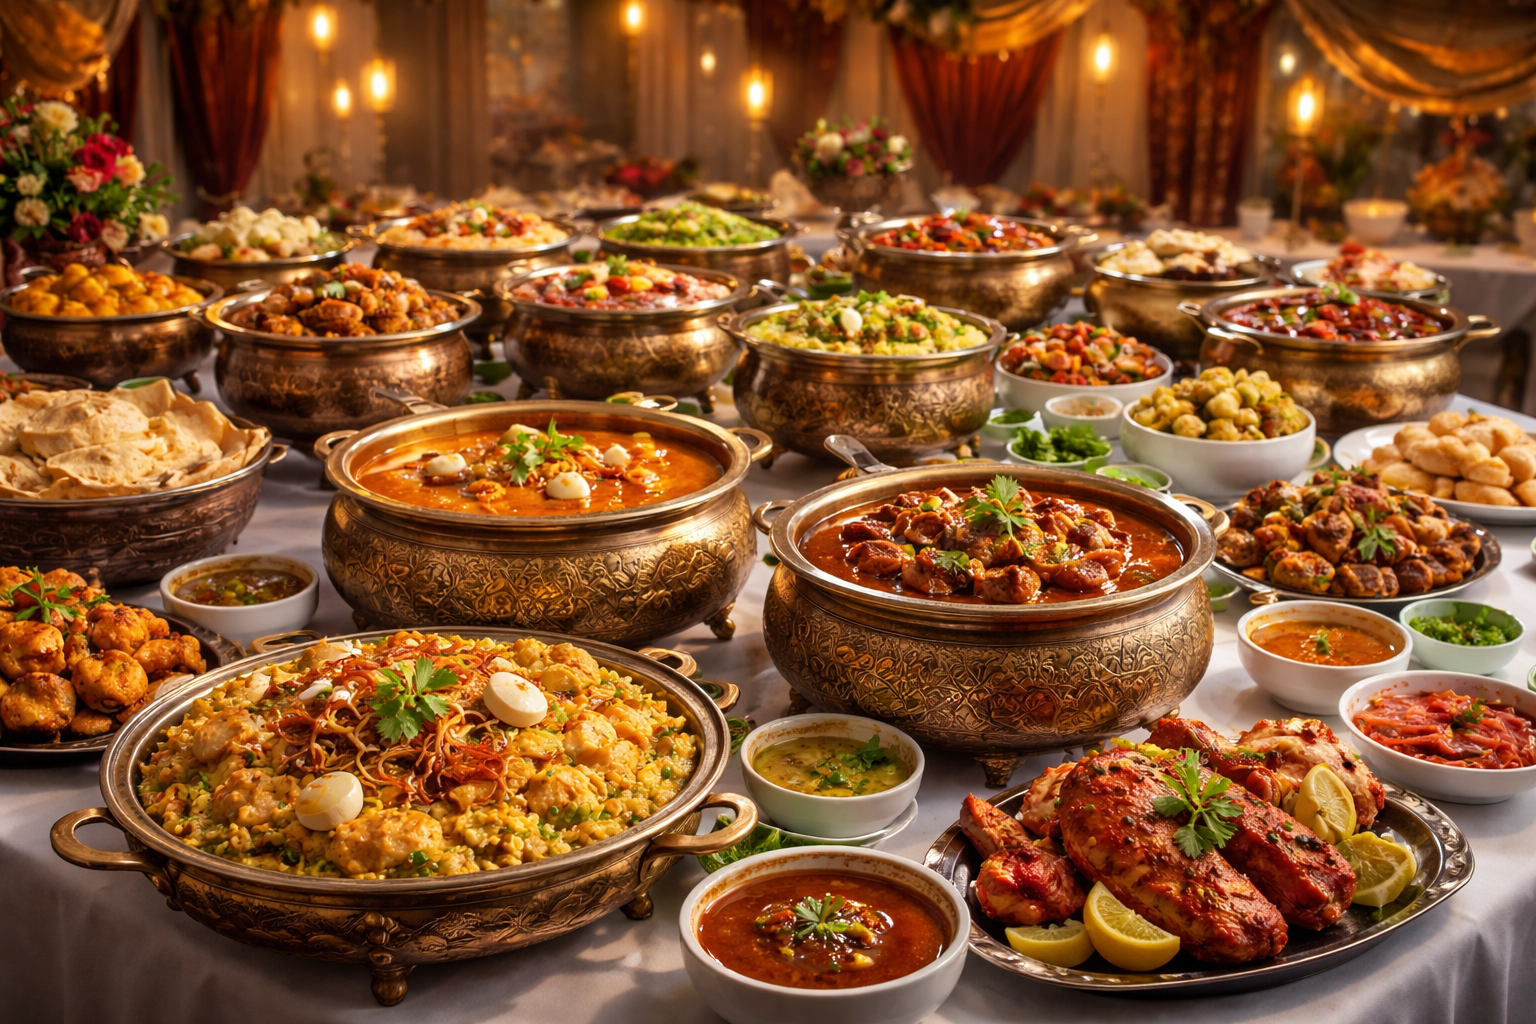
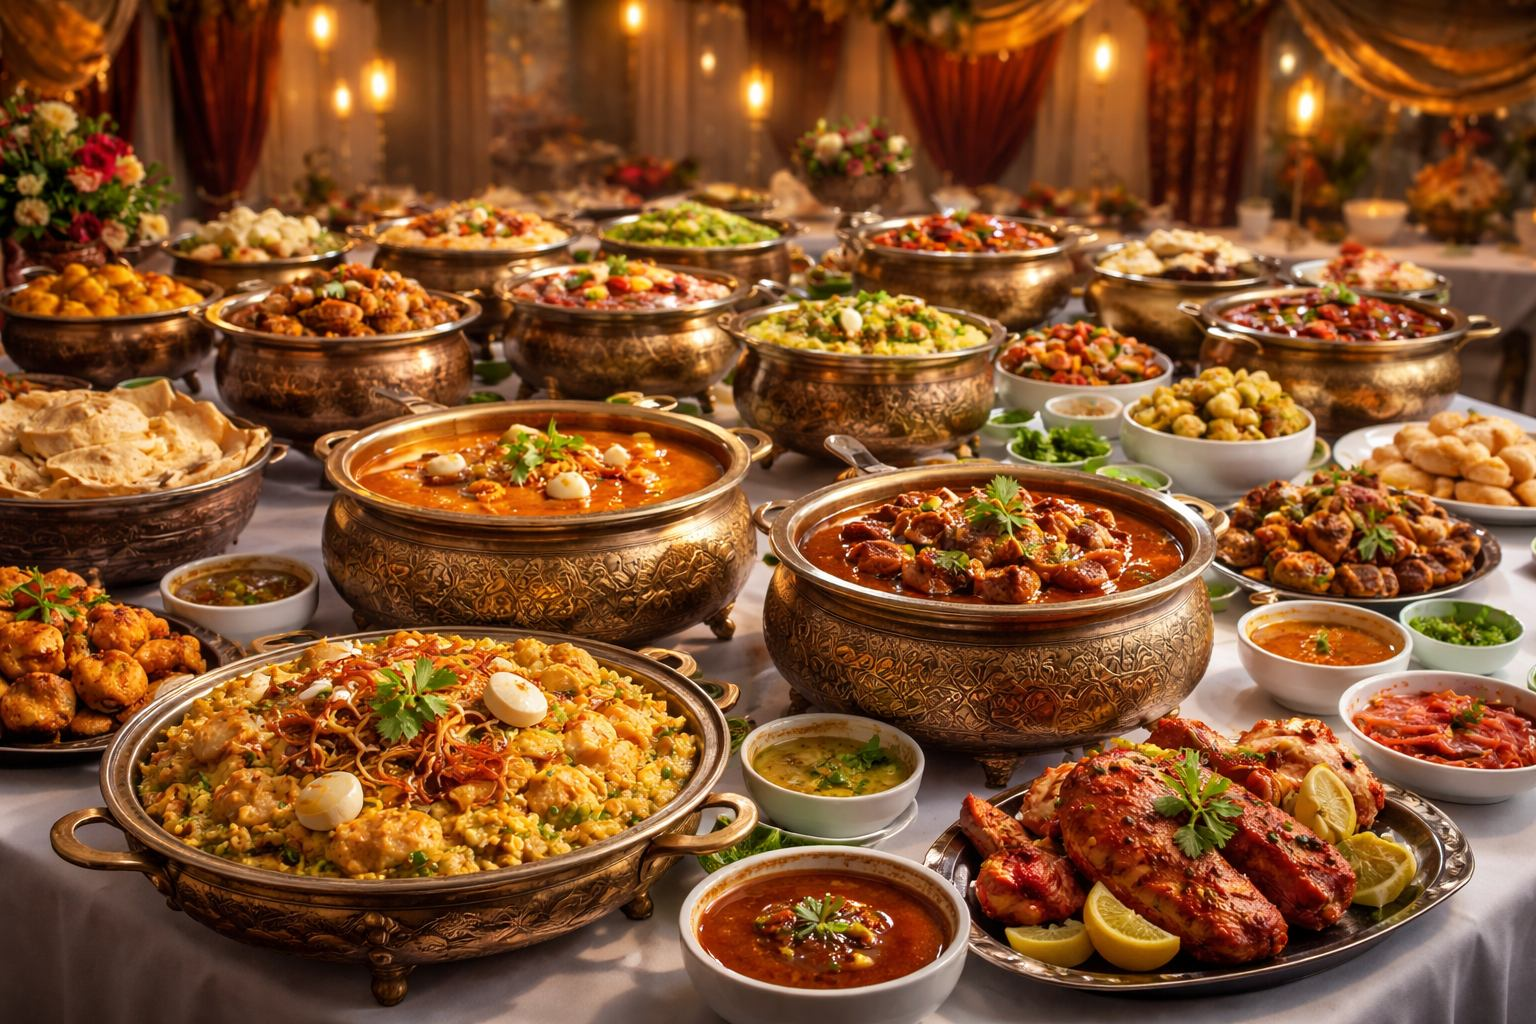
perf: optimize hero images and vendor-split bundle

Changed region(s): [[0.7188, 0.5312, 0.75, 0.5625]]

diff --git a/client/vite.config.ts b/client/vite.config.ts
@@ -5,4 +5,26 @@ import react from '@vitejs/plugin-react'
 // https://vite.dev/config/
 export default defineConfig({
   plugins: [react(), tailwindcss()],
+  build: {
+    rollupOptions: {
+      output: {
+        manualChunks(id) {
+          if (!id.includes('node_modules')) return;
+          if (/react-router/.test(id)) return 'router';
+          if (/tanstack\/query/.test(id)) return 'query';
+          if (/i18next/.test(id)) return 'i18n';
+          if (/lucide-react/.test(id)) return 'icons';
+          if (/react-hook-form/.test(id)) return 'forms';
+          if (/react|scheduler/.test(id)) return 'react';
+          return 'vendor';
+        },
+      },
+    },
+  },
+  server: {
+    allowedHosts: true,
+  },
+  preview: {
+    allowedHosts: true,
+  },
 })
